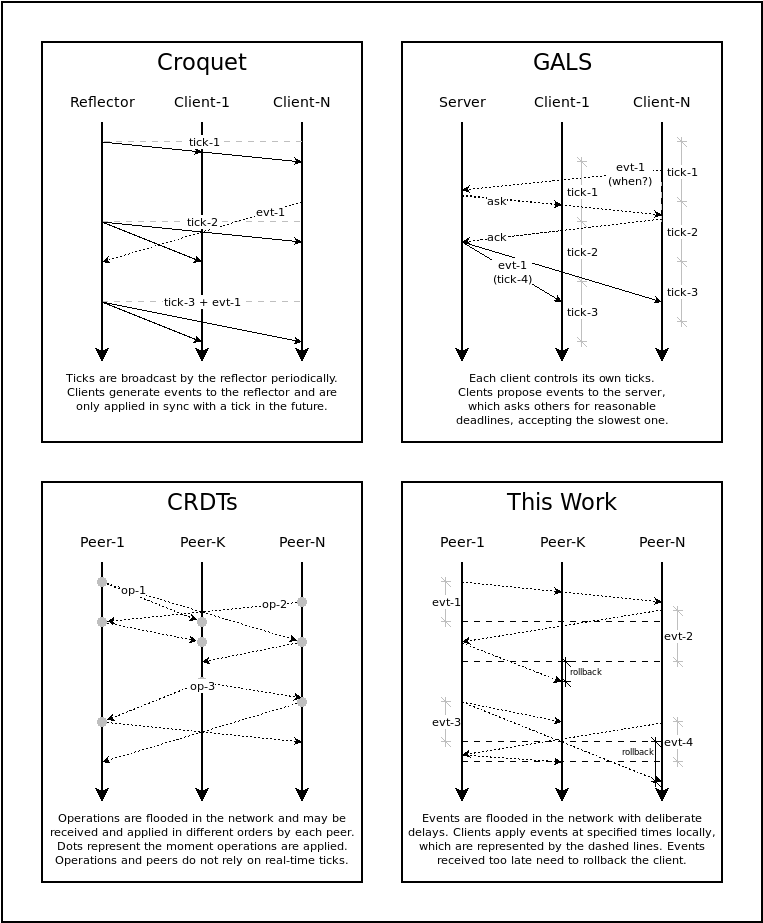
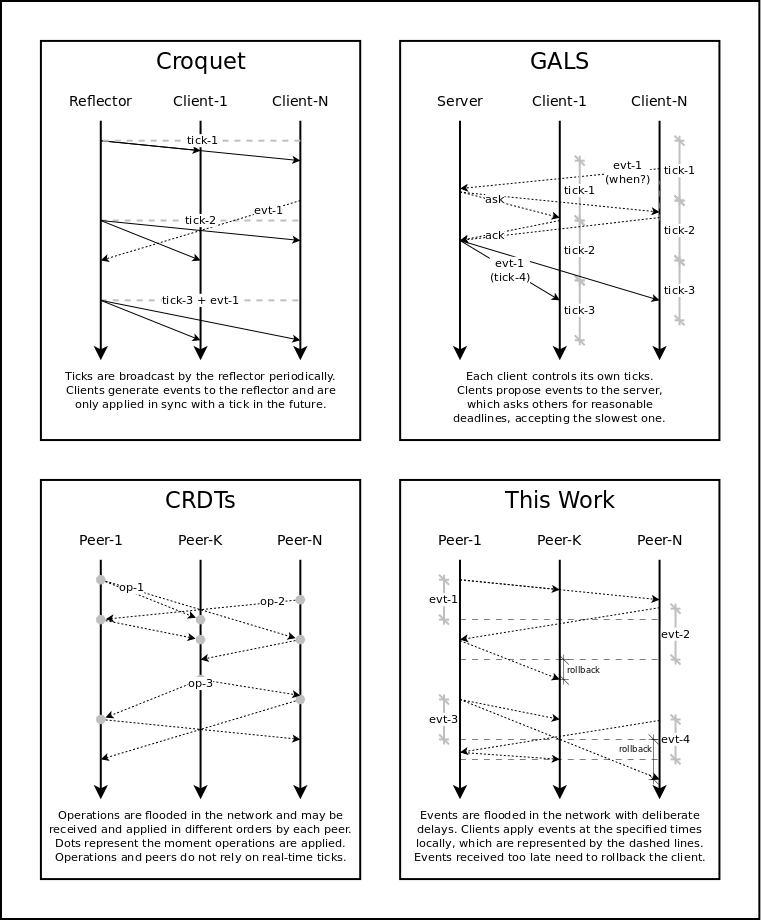
- ate antes de 3.2

diff --git a/tpd-22.tex b/tpd-22.tex
@@ -33,7 +33,7 @@
 
 \IEEEtitleabstractindextext{%
 \begin{abstract}
-In multi-node collaborative applications, such as shared online documents,
+In collaborative networked applications, such as shared online documents,
 users can interact remotely and yet share the exact same experience as if they
 were in a single machine.
 %
@@ -41,14 +41,14 @@ In this work, we propose a middleware for \emph{symmetric peer-to-peer
 applications} in which decentralized instances can broadcast asynchronous
 events and yet conform to identical behavior.
 %
-Nodes are allowed to join and leave the network at any time.
+Peers are allowed to join and leave the network at any time.
 Application developers must adhere to a restricted API, which is deterministic,
 stateless, and only supports pre-allocated memory.
 %
 The middleware is responsible for synchronizing the events in a global shared
 timeline across the network.
-Based on memory snapshots and deterministic simulation, a ``time machine'' can
-rollback conflicting peers to resynchronize their state.
+Also, ased on memory snapshots and deterministic simulation, a ``time machine''
+can rollback conflicting peers to resynchronize their state.
 %
 TODO: application, results
 \end{abstract}
@@ -87,10 +87,10 @@ nodes and determine the shared timeline.
 
 In this work, we propose \emph{symmetric peer-to-peer applications}, which
 do not rely on central servers for coordination.
-Peers in the application form a dynamic graph network and communicate only
-with direct neighbours, as a typical unstructured peer-to-peer network.
+Peers in the application form a dynamic network graph and communicate only
+with direct neighbours, as in typical unstructured peer-to-peer networks.
 Events are flooded in the graph and are triggered locally with a small delay
-to consider the network latency.
+to compensate the network latency.
 To deal with events received out of order or too late, a distributed time
 machine can rollback peers to a previous state and reapply events in order and
 in time.
@@ -164,9 +164,8 @@ distributed environment.
 As detailed in Figure~\ref{fig.algos}, a centralized \emph{reflector} issues
 periodic ticks, such that all nodes in the network advance together according
 to a synchronized global shared clock.
-If an user generates an event, it is delayed and sent back to the reflector,
-which broadcasts the event in the next tick, which all nodes apply in sync
-(including the originating node).
+If a user generates an event, it is delayed and sent back to the reflector,
+which broadcasts the event in the next tick, which all nodes apply in sync.
 %
 Croquet takes periodic snapshots of the whole application state in order to
 support late joins to a running session.
@@ -180,27 +179,28 @@ on the central server to be online.
 GALS~\cite{gals} shares the same goals with Croquet, but with some tradeoffs,
 mostly favoring clients with slow connections.
 As detailed in Figure~\ref{fig.algos}, instead of advancing ticks in sync with
-the server, clients have their own local clocks.
-Also, event generation is delayed dynamically according to the slowest client.
+the server, clients have their own independent local clocks.
+Event generation requires two round trips (\emph{when→ask→ack→tick}) and is
+delayed dynamically according to the slowest client.
 %
 On the one hand, ticks do not generate any traffic and clients have smooth
 frame transitions, even those with poor connections.
-On the other hand, event generation requires two round trips to the server and
-clients may experience occasional freezes.
+On the other hand, events are slower and clients may experience occasional
+freezes.
 The syncing protocol also requires bookkeeping to deal with clock drifts and
 client disconnections~\cite{gals}.
 %
-As indicated in Figure~\ref{fig.table}, GALS relies on a centralized
-network, in which nodes advance independently, and in which event outcomes
-depend on the central server to be online.
+As indicated in Figure~\ref{fig.table}, GALS also relies on a centralized
+network, but in which nodes advance time independently, and in which event
+outcomes still depend on the central server to be online.
 
 In both solutions, the network advances together as a whole in real time, with
 a total order among events, which is determined by a central server that must
 be permanently online.
 All clients compute the events in sequence, respecting their timestamps, and
 using only deterministic and stateless calls.
-This way, it is guaranteed that all clients reach the same state, also going
-through bit-identical steps.
+This way, it is guaranteed that all clients reach the same state, and
+observe bit-identical steps.
 
 An antagonistic approach to deterministic reactions to events is to model the
 application with conflict-free replicated data types (CRDTs)~\cite{crdts}.
@@ -214,11 +214,11 @@ very first moment they are generated or received, even if the peers are
 offline.
 %
 Since operations must be commutative, it is not possible to timestamp them
-in a global shared clock.
+in a unique global shared clock.
 Hence, there is no notion of a timeline in which peers go through
 bit-identical steps, but they do eventually reach the same state.
 %
-On the one hand, the main advantage of CRDTs is the support for local-first
+On the one hand, the main advantage of CRDTs is to support local-first
 software~\cite{local}, since they can work offline in the same way as online.
 On the other hand, they provide very restrictive APIs (the CRDTs themselves),
 and do not support real-time consensus among peers.
@@ -279,7 +279,7 @@ API in which developers have to conform with.
 %
 The middleware is written in C and relies on the library \emph{SDL}%
 \footnote{SDL: \url{www.libsdl.org}}
-to deal with the network and input events, such as timers, mouse clicks and
+to deal with the network, timers, and input events, such as mouse clicks and
 key presses.
 The full source code%
 \footnote{TODO}
@@ -305,10 +305,10 @@ moving rectangle.
 The six instances are connected in a peer-to-peer network, such that some
 peers can only communicate indirectly.
 %
-The application is symmetric in the sense that if any peer presses a key, a
+The application is symmetric in the sense that if any user presses a key, a
 corresponding event is broadcast and applied in all peers simultaneously, as
-if they were a single mirrored instance.
-At any moment, if a peer pauses the application, all peers are guaranteed to
+if they were a single mirrored machine.
+At any moment, if a user pauses the application, all peers are guaranteed to
 pause exactly at the same frame with the rectangle being ``bit-identically'' at
 the same position.
 
@@ -330,7 +330,7 @@ The application itself is not aware of the network and has no direct access to
 the other peers, which communicate transparently through the middleware.
 The application generates asynchronous events that go through the middleware,
 which synchronizes them with a timestamp in the future, such that all peers can
-agree.
+satisfy.
 The middleware controls the execution of the application by issuing ticks and
 synchronized events.
 
@@ -344,23 +344,24 @@ As described in the Introduction, the middleware ensures that all peers
 \begin{enumerate}
 \item \textbf{Event Deadlines:}
 Due to the inherent latency of networks, peers generate events with a
-deliberate delay so that they reach other peers in time to be applied in sync
-in a common deadline.
+deliberate delay so that they can reach other peers in time to be applied in
+sync.
 %We first assume a predetermined delay for the sake of simplicity.
-However, a peer that is locally ahead of time may receive an event that should
-have been applied in the past, event considering the delay.
+Nevertheless, a peer that is locally ahead of time may receive an event that
+should have been applied in the past, even considering the delay.
 In this case, the middleware automatically rolls back the peer, applies the
 event at the correct time, and then fast forwards the peer, re-applying all
 remaining events up to the real time.
-As we detail further, rolling back a peer requires to simulate its whole
-execution from the beginning (or from a snapshot in between).
+As we detail further, rolling back a peer requires to simulate the whole
+application execution from the beginning.
+As an optimization, the middleware takes periodic snapshots locally to avoid
+full simulation.
 %
 \item \textbf{Time Synchronization:}
 Since peers run in different machines, their timelines will inevitably be out
-of sync because:
-    (a) applications are launched locally at different times, and
-    (b) internal clocks may diverge over time (e.g., from rollbacks or timer
-        polling inaccuracies).
+of sync because applications are launched locally at different times, and
+because internal clocks may diverge over time (e.g., from rollbacks or timer
+polling inaccuracies).
 The middleware assumes the maximum time among all peers the be the
 ``correct real time'', so that other peers must fast forward to catch up with
 it.
@@ -377,16 +378,16 @@ middleware can handle arrival and departure of peers seamlessly.
 Note that high churn may lead to intermittent network partitions.
 Given our unstructured approach, nothing needs to be done when a peer leaves
 the network.
-However, when a peer joins the network, the middleware just needs to ensure
-that it receives all events in order, which is trivial since they all hold an
-absolute timestamp.
+However, when a peer joins the network, the middleware needs to ensure that the
+peer receives all events that ever happened in order, which is trivial since
+they all hold an absolute timestamp in the shared timeline.
 \end{enumerate}
 
 \subsection{The Programming API}
 \label{sec.tml.api}
 
 The middleware expects to take full control of the application execution in
-order to control its timeline and disseminate events in the network.
+order to manipulate its timeline and disseminate events in the network.
 For this reason, the basic programming API is to call a \code{loop} function
 passing a set of callbacks, which the middleware uses to communicate with the
 application:
@@ -407,21 +408,21 @@ int main (void) {
 \end{verbatim}
 }
 
-The middleware assumes that each peer assigns to itself a unique identifier in
-a contiguous range.
-The FPS must be the same in all peers to ensure that the simulation executes
-exactly the same.
+The middleware assumes that each peer assigns itself a unique identifier in a
+contiguous range.
+The FPS must be the same in all peers to ensure bit-identical simulation.
 
 \subsubsection{Application State}
 \label{sec.tml.api.state}
 
-The global variable \code{G} must hold the full application state.
-This allows the middleware to take memory snapshots and rollback to a previous
+The variable \code{G} passed to the middleware holds the full application
 state.
+This allows the middleware to take memory snapshots and rollback to previous
+states.
 If dynamic allocation is required, it is necessary to hold a finite memory
 pool in \code{G} with a custom allocator.
-For instance, the moving rectangle application only requires to hold the
-current position and direction:
+In our guiding example of Figure~\ref{fig.move}, the moving rectangle
+application only requires to hold the current position and direction:
 
 {\footnotesize
 \begin{verbatim}
@@ -437,12 +438,13 @@ struct {
 
 The application generates events that need to be broadcast to the network so
 that all peers behave the same.
-In this sense, application events may differ from low-level local system
-events, which may or may not be mapped 1-to-1 in the callback \code{cb\_evt}.
-
-There middleware predefines two events for all applications:
+Note that the application events may (or may not) differ from low-level local
+system events.
+%which may or may not be mapped 1-to-1 in the callback \code{cb\_evt}.
+%
+The middleware predefines two events for all applications:
     \code{P2P\_EVT\_START} represents the beginning of the simulation, and
-    \code{P2P\_EVT\_TICK} called at every frame.
+    \code{P2P\_EVT\_TICK} is generated every frame.
 The application-specific events must be declared by the programmer in an
 enumeration.
 In our application, we define a new event \code{P2P\_EVT\_KEY} to represent key
@@ -461,9 +463,9 @@ enum {
 
 The middleware calls \code{cb\_ini} twice: at the beginning and at the end of
 the loop.
-It should be used to initialize (and finalize) the network topology, as well
-as static globals that can live outside the simulation memory, such as the
-window and image textures:
+The callback initializes (and finalizes) the network topology, as well as
+static immutable globals that can live outside the simulation memory, such as
+the window and image textures in our example:
 
 {\footnotesize
 \begin{verbatim}
@@ -486,10 +488,10 @@ void cb_ini (int ini) {
 \subsubsection{Simulation Callback}
 \label{sec.tml.api.cb_sim}
 
-The middleware calls \code{cb\_sim} on every frame, passing an application
-event, to affect the simulation state \code{G} deterministically.
-The callback must never perform any side effects, such as stateful calls or
-rendering frames.
+The middleware calls \code{cb\_sim} every frame, which affects the simulation
+state \code{G} deterministically.
+The occurring event is passed as an argument to the callback, which must never
+perform any side effects, such as stateful calls or rendering frames.
 In our example, we modify the state of the rectangle as follows:
     (a) reset its position and speed on \code{START},
     (b) increment its position based on the current speed on \code{TICK}, and
@@ -506,7 +508,7 @@ void cb_sim (p2p_evt evt) {
             G.x += G.dx * VEL;
             G.y += G.dy * VEL;
             break;
-        case P2P_EVT_KEY:  // modifies speed
+        case P2P_EVT_KEY:   // modifies speed
             switch (evt.pay.i1) {
                 case SDLK_UP:
                     G.dx = 0;
@@ -525,23 +527,23 @@ while the user is interacting with the application.
 However, if the peer is out of sync, the middleware may ``time travel'' and
 call the simulation many times to go back and forth and catch up with real
 time.
-This is the reason why we define \code{START} as an event like any other, since
+This is the reason why we define \code{START} as an event like any other:
 travelling requires to simulate the execution from the beginning, event by
 event.
 
 \subsubsection{Rendering Callback}
 \label{sec.tml.api.cb_ren}
 
-Time travelling is also the reason why \code{cb\_sim} must be split from the
-rendering callback \code{cb\_ren}~\cite{tml.js}, which would otherwise render
-the screen multiple times while travelling.
+Time travelling is also the reason why \code{cb\_sim} must be separated from
+the rendering callback \code{cb\_ren}~\cite{tml.js}, which would otherwise
+render the screen multiple times while travelling.
 %, which the middleware calls only on real-time frames.
 In our example, \code{cb\_ren} just needs to redraw the rectangle at the
 current position:
 
 {\footnotesize
 \begin{verbatim}
-void cb_eff (void) {
+void cb_ren (void) {
     <...> // clears the SDL window
     // redraws the rectangle at the current position
     SDL_Rect r = { G.x, G.y, 20, 20 };
@@ -553,17 +555,18 @@ void cb_eff (void) {
 \subsubsection{Events Callback}
 \label{sec.tml.api.cb_evt}
 
-The \code{cb\_evt} callback is called by the middleware in real time, whenever
+The callback \code{cb\_evt} is called by the middleware in real time, whenever
 a local SDL event occurs.
 This callback has two goals:
     (a) map and broadcast application events, and
     (b) provide instant feedback to the user.
-As mentioned previously, not all local low-level events may generate
-application events to be broadcast in the network.
+%As mentioned previously,
+Not all local low-level events need to broadcast application events in the
+network.
 The callback is allowed to perform side effects, such as modifying the network
-topology, or exhibiting some feedback on the screen.
+topology, or exhibiting instant feedback on the screen.
 In our example, we only generate application events for the 5 key events, and
-we also exhibit the pressed key in real time:
+we also exhibit the pressed key in real time as a visual feedback:
 
 {\footnotesize
 \begin{verbatim}
@@ -791,12 +794,11 @@ an event after its deadline.
 We count all time travel occurrences during the simulation.
 %
 Regarding (b), we use an absolute simulation clock to track, in real time, the
-execution pace of each peer in comparison to a reference peer most advanced in
-time.
+execution pace of each peer in comparison to the reference peer, which is the
+one most advanced in time.
 %
-Regarding (c), we designate some peers to leave and join the network
-periodically, possibly creating partitions, to assert that they all catch up in
-real time.
+Regarding (c), we make peers leave and join the network periodically, possibly
+creating partitions, and assert that they all catch up in real time.
 
 \begin{figure*}[t]
   \centering
@@ -821,7 +823,7 @@ We simulate the network latency in software with random delays.
 
 Figure~\ref{TODO} results...
 - colors indicate feasibility
-%
+
 We now detail how we instrument the middleware implementation to measure the
 properties above:
 %
@@ -843,8 +845,8 @@ total simulation ticks (\code{TODO} in Figure~\ref{TODO}).
 As an example, if all peers sum $1000$ forward ticks over $100k$ accumulated
 simulation ticks, then the final measure is $1\%$.
 %
-We also start each peer with a random delay of up to $10s$ to force a time
-mismatch.
+We also start each peer with a random delay of up to $10s$ to force a
+synchronization mismatch from the beginning.
 %
 Each peer outputs its current tick continuously, allowing us to compare them
 in the shared timeline.
@@ -855,12 +857,22 @@ We expect this counter to be close to zero even considering the whole
 simulation.
 %
 \item \textbf{Correctness of unstable peers:}
-- state (even for stable peers)
-- time
-- remove 13 (nao partition) e 10 (partition)
-- qto tempo leva para sync
+We run a separate simulation in which, for every $100s$, each peer remains
+$40s$ online and $20s$ offline, including peers \code{9--11} in the middle of
+the network.
+This creates partitions in which sides advance in time and generate events out
+of sync, which need to be merged and resynchronized constantly.
+We measure
+    - state (even for stable peers)
+    - qto tempo leva para sync
 %
 \end{enumerate}
+
+- ate 20
+- 30: bugs
+- 40: -> <- O(n), [500|500] future, (-5s) delay links
+
+- qual a natureza do baksS alto e baksI baixo?
 
 After $Xs$, .
 and then verify if they synchronize and remain synchronized during the whole
